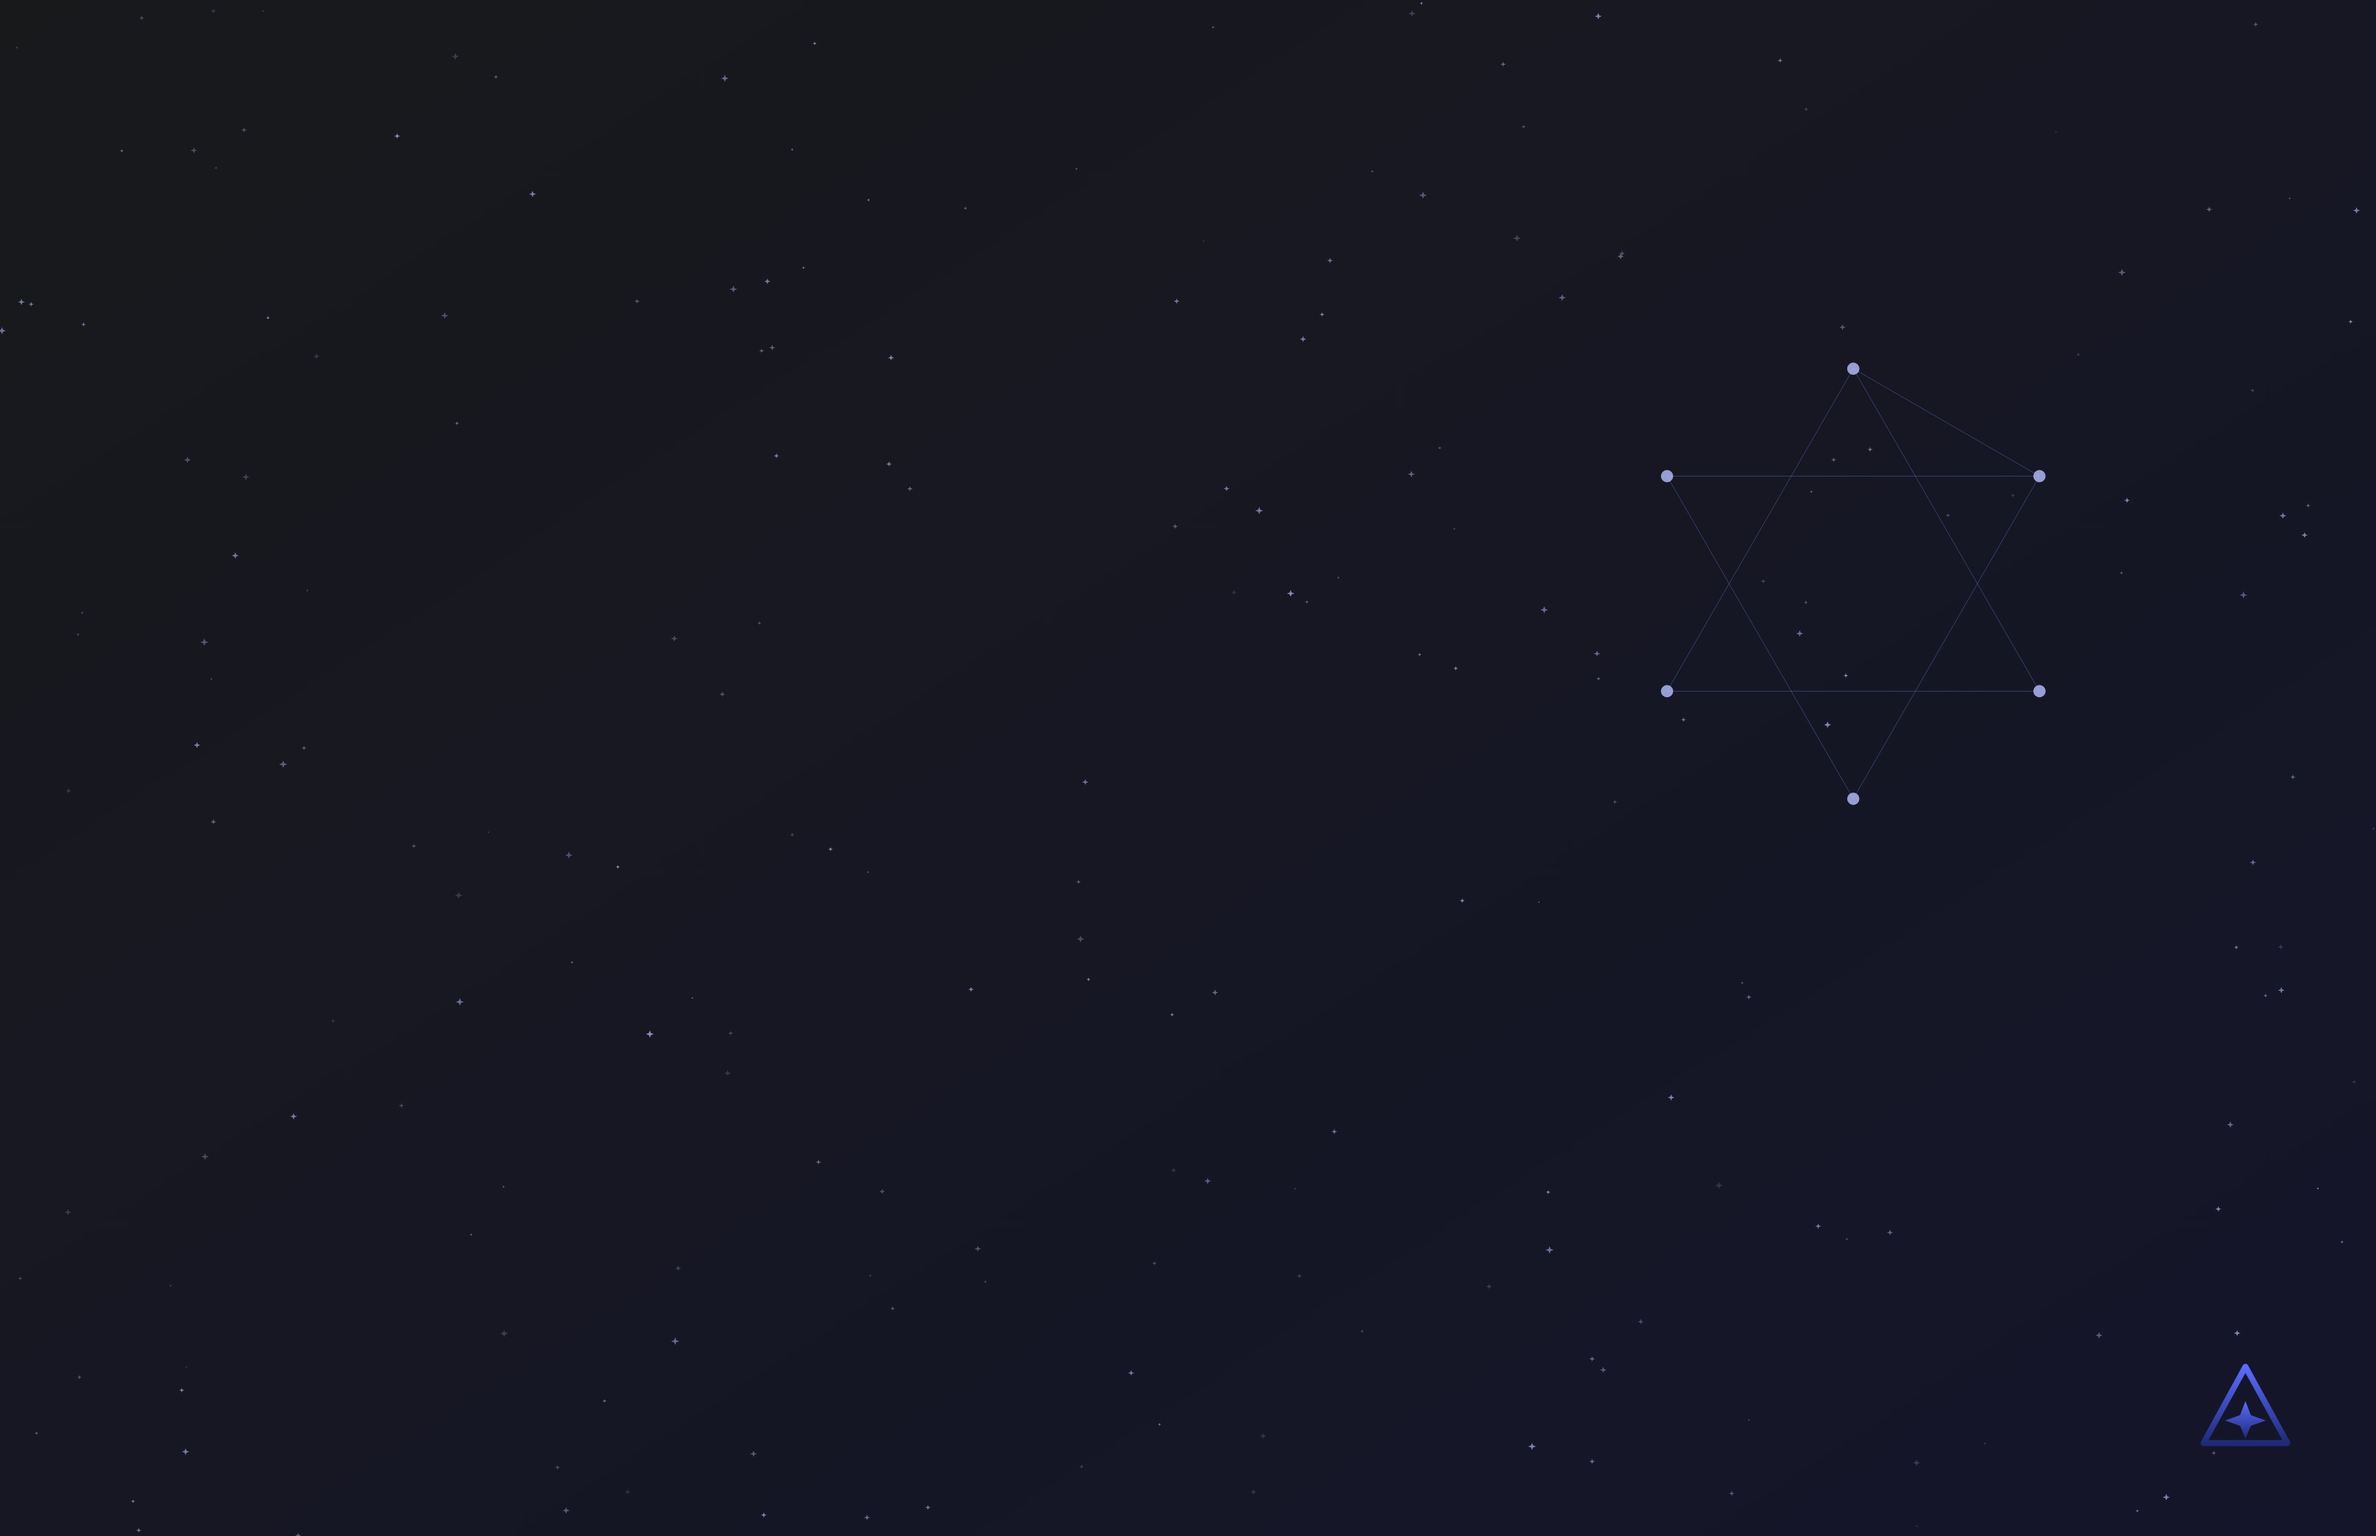
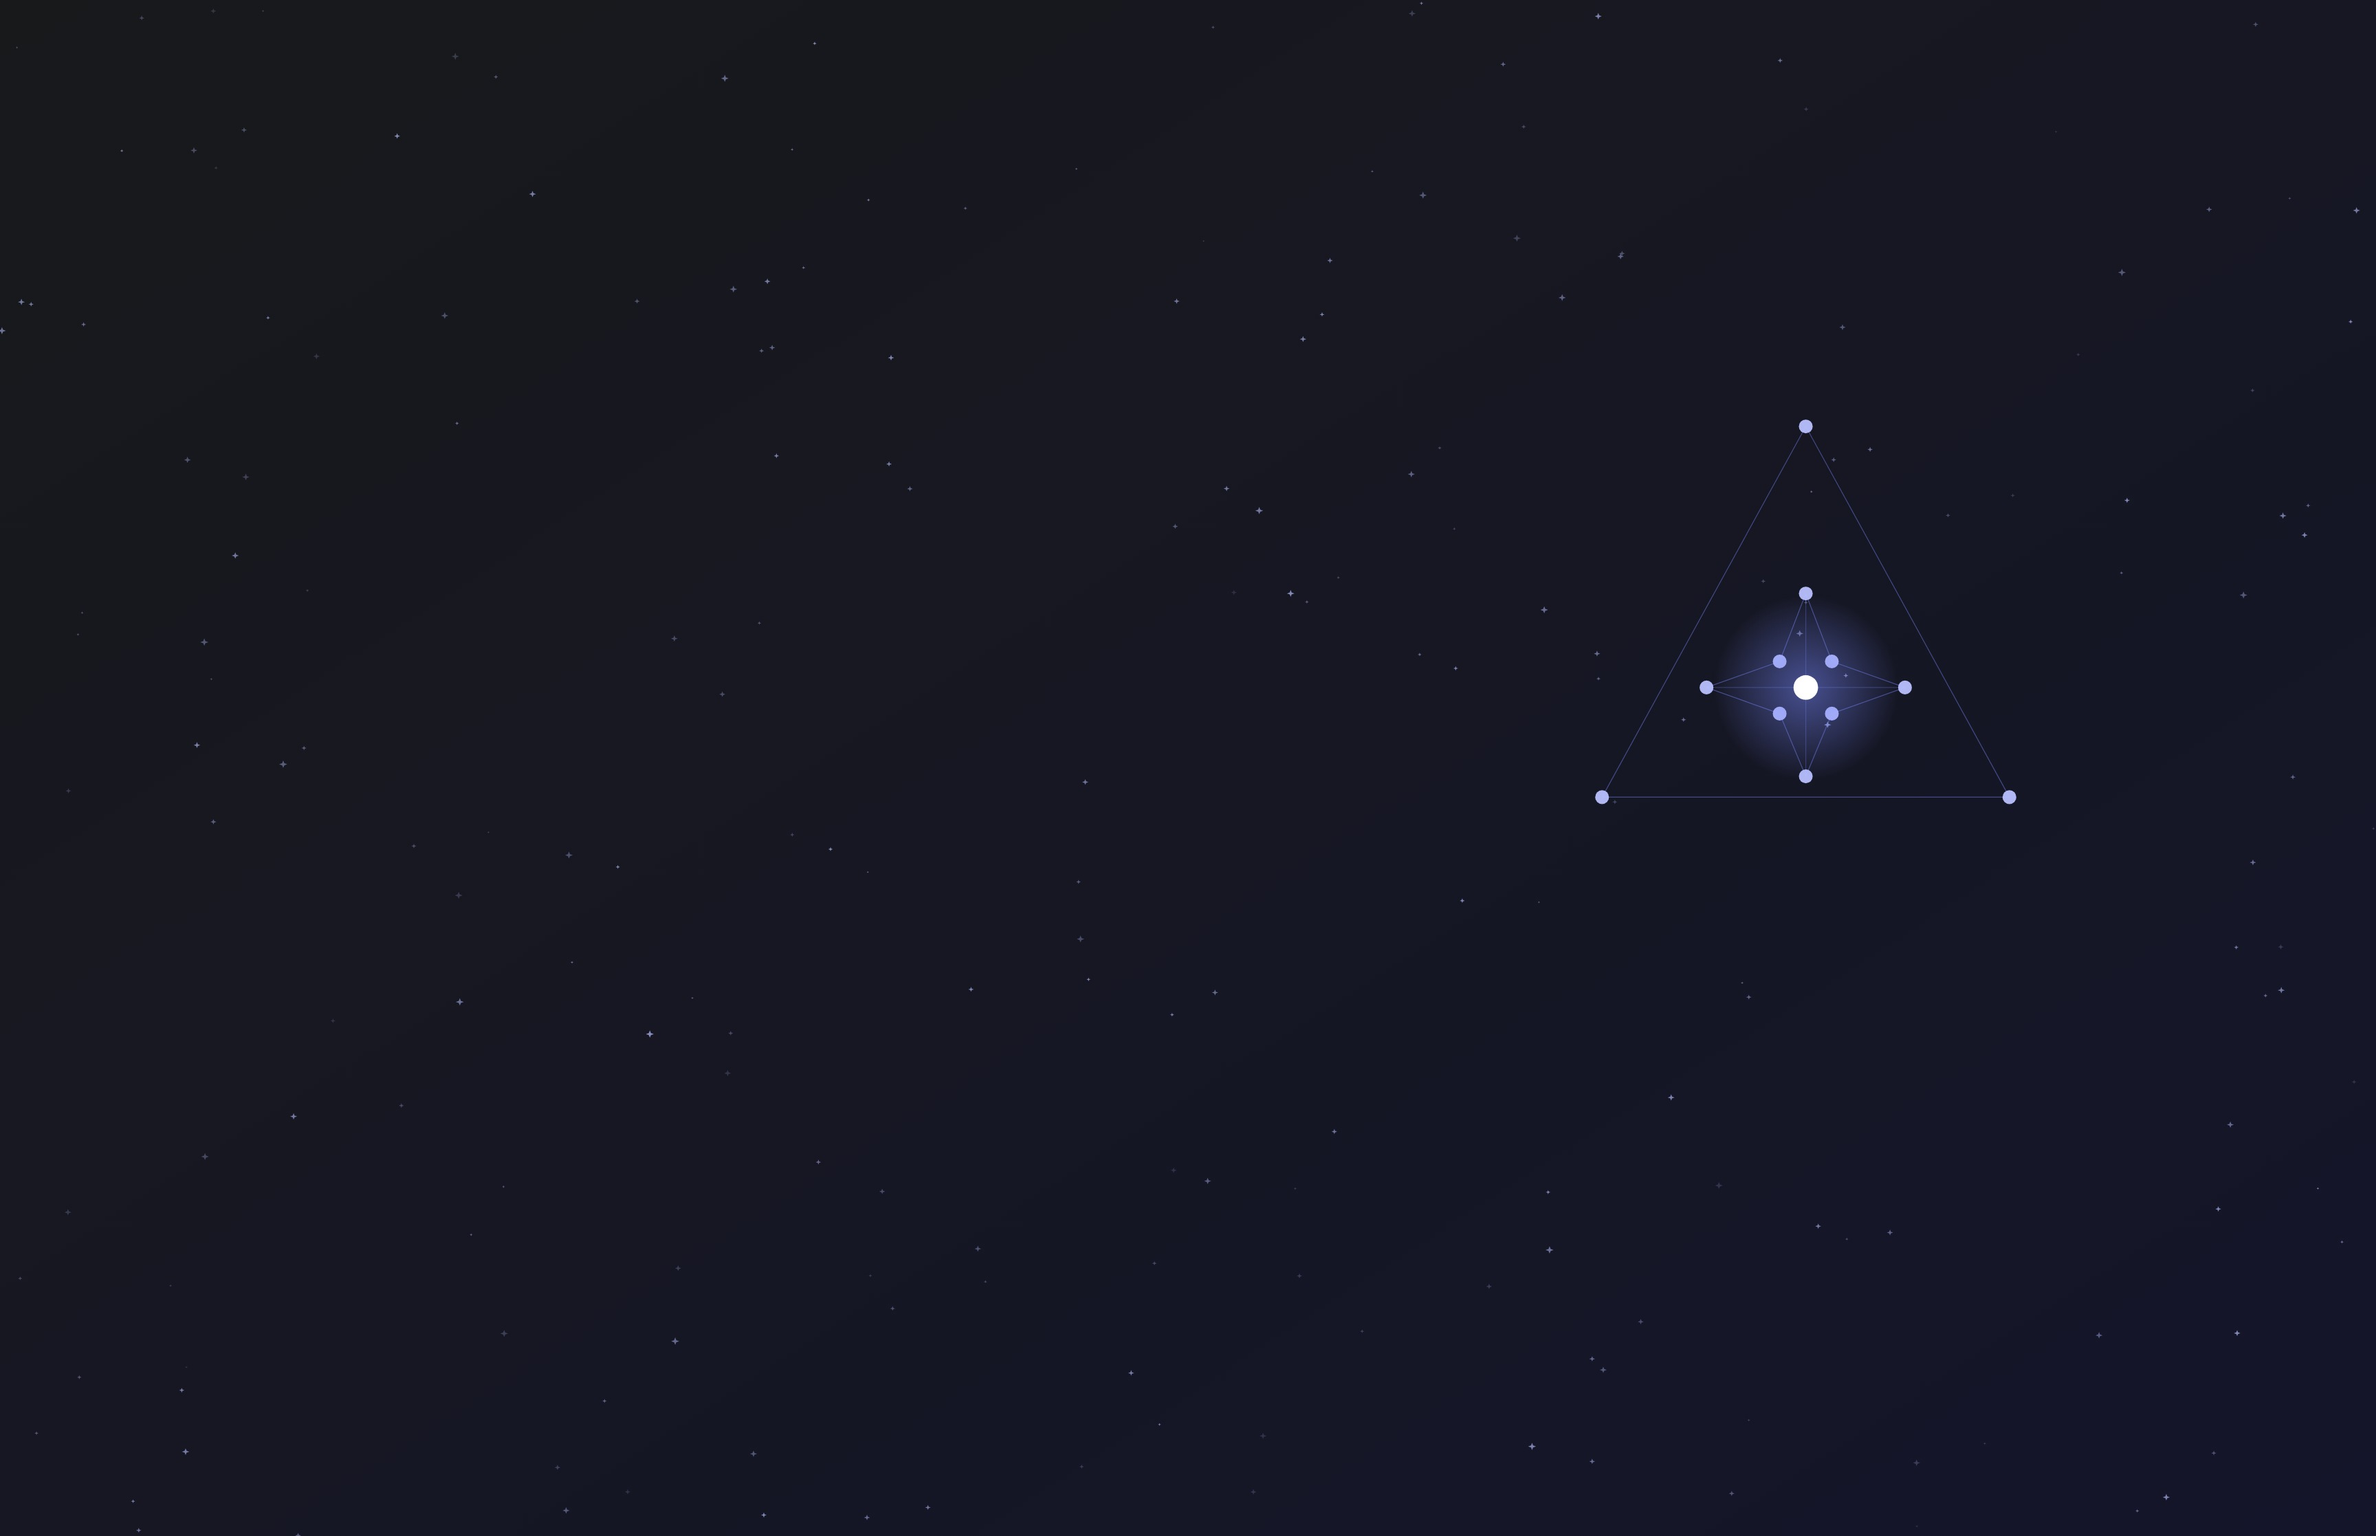
feat(site): the constellation wallpaper traces the stardelt mark (#324)

Changed region(s): [[0.7188, 0.4015, 0.8125, 0.5251], [0.9375, 0.8957, 0.9688, 0.9575]]

diff --git a/docs/community/wallpapers.md b/docs/community/wallpapers.md
@@ -21,7 +21,7 @@ The starfield, glow and delta outline from the top of this site, with the logo c
 
 ## Constellation
 
-![Constellation wallpaper: scattered star marks and a connected delta constellation on a dark gradient, with the stardelt logo in the corner](/img/wallpapers/thumb-constellation.jpg)
+![Constellation wallpaper: the stardelt mark — delta and four-pointed star — drawn as a constellation on a dark gradient](/img/wallpapers/thumb-constellation.jpg)
 
 **Download:** [16:10 (3456 × 2234)](/img/wallpapers/constellation-16x10.jpg) · [16:9 (3840 × 2160)](/img/wallpapers/constellation-16x9.jpg) · [SVG](/img/wallpapers/constellation-16x10.svg)
 
